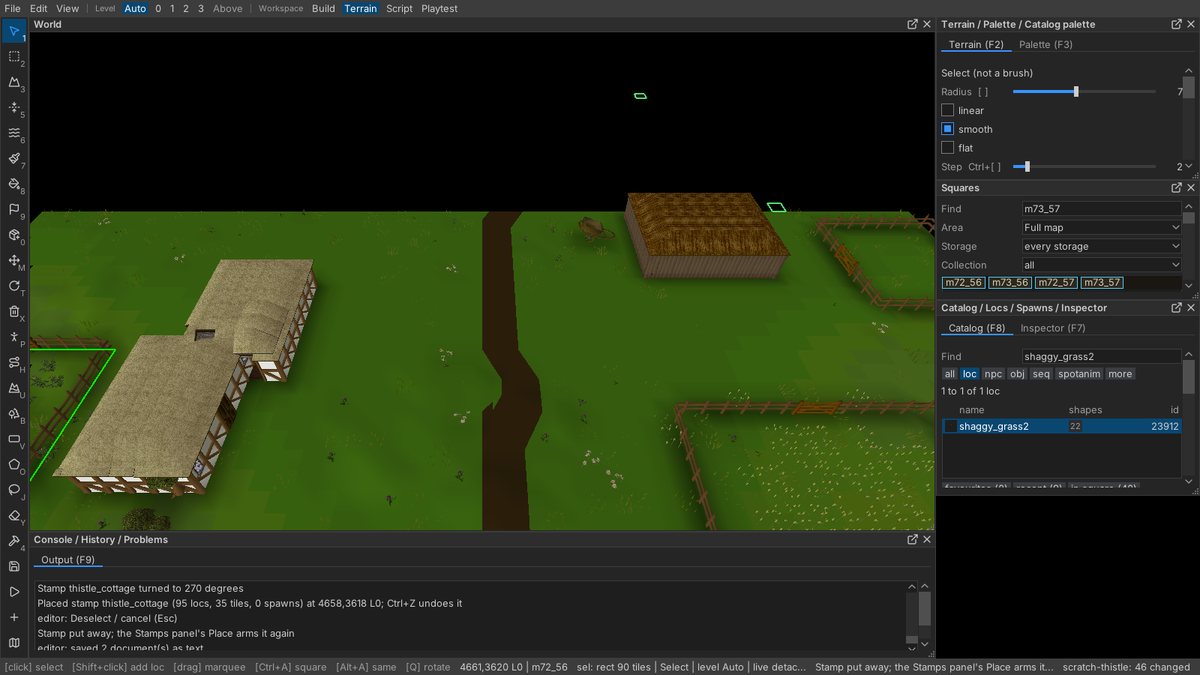
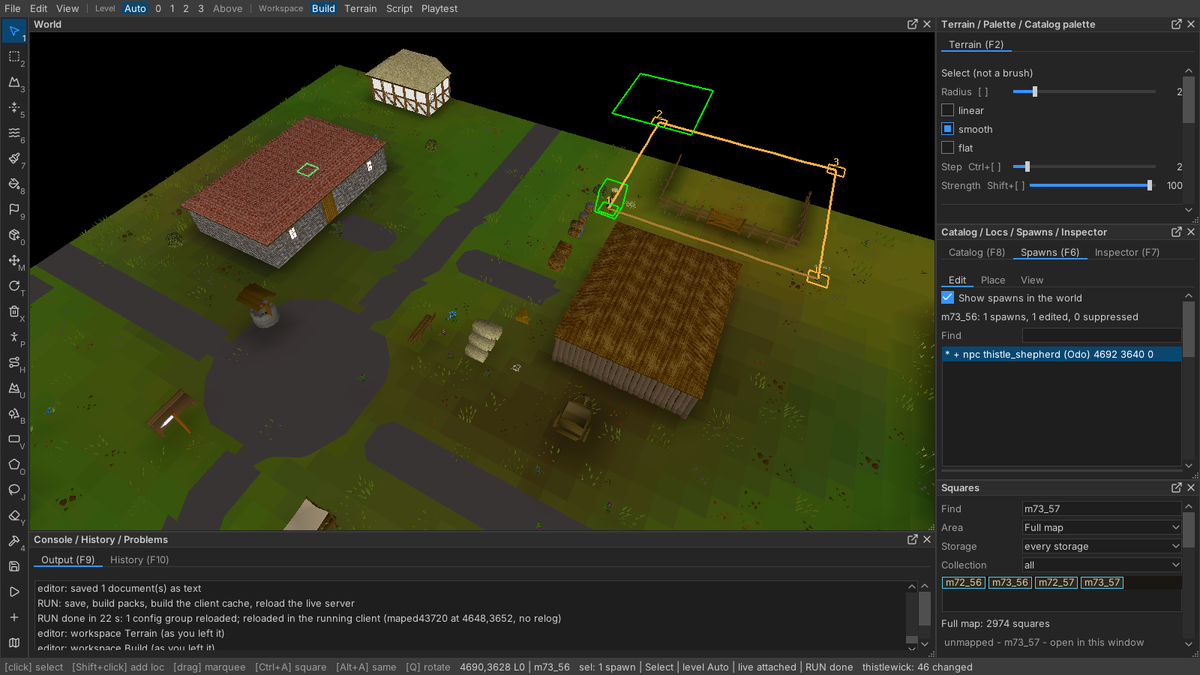
Thistlewick: a village that looks like RuneScape, and the tutorial says how
The first village was a flat h1 field of one green with wide, frayed brown
paths. Measured against Rimmington, Draynor and Taverley's own squares and
rebuilt in the editor:

- roads in overlay 10 (stone floor) laid with the Region tool's natural edge
  shapes, three tiles wide, a square round the well, spurs to the doors;
- the ground lifted to h16 and painted in solid patches of six underlays
  (48, 49, 50, 33, 63, 64) that the client blends;
- three more buildings round the square, a fenced garden, flower beds, dug
  soil, and the props the real villages use most at their doors.

The tutorial's terrain and decoration sections now teach that method, with
the real villages' numbers. The Terrain panel's Mix tooltip says that below
100 it scatters single tiles (a speckle), not a blend.

diff --git a/src/editor/panels/edpanel_terrain.c b/src/editor/panels/edpanel_terrain.c
@@ -1007,7 +1007,7 @@ Editor_Terrain_Register(struct EditorUi* ui)
         "Tiles around the flat top that ease to the ground (Rect too)");
     /* Paint underlay (7): its mix, hidden until armed. */
     self->slider_mix = ToriRSChrome_Slider(chrome, self->panel, "Mix (%)", 10, 100, ui->tools.paint_mix, 10);
-    ToriRSChrome_SetTooltip(chrome, self->slider_mix, "Share of tiles painted under 100: a dither the ground blends");
+    ToriRSChrome_SetTooltip(chrome, self->slider_mix, "Share of tiles painted; under 100 shows as a speckle of tiles");
     self->hint_underlay = ToriRSChrome_Paragraph(chrome, self->panel,
         "The ground blends underlays over 5 tiles: a stroke under 3 wide fades away. "
         "For a hard edge paint an overlay.");

diff --git a/docs/QUEST_TUTORIAL.md b/docs/QUEST_TUTORIAL.md
@@ -106,18 +106,44 @@ Switch to the Terrain workspace (**Workspace: Terrain** on the menu bar,
 Ctrl+2). Every tool below is on the left tool rail; its options are in the
 **Terrain** panel (F2) and its floors in the **Palette** (F3).
 
-A real RuneScape area is never one flat colour. Work from large to small:
-the roads, the lie of the land, water, then the ground's colour.
+A real RuneScape area is never one flat colour, and never flat. Before
+shaping anything, look at a real village in the editor (Squares > Find
+`m46_50`, Rimmington, **Open**; do not save it) and read its files: the
+numbers below come from Rimmington, Draynor and Taverley's `.jm2` and `.jl2`.
+Work from large to small: the lie of the land, the roads, water, then the
+ground's colour.
 
 ### Roads
 
-**Paint path** (H, `tool.paint_path`), **Path** *dirt*, **Width (half tiles)**
-6 for the main road (3 tiles), 4 for a track. With nothing picked in the
-Palette it lays overlay 14 *dirt track* and says so. Drag each arm with a
-slight wobble; **Roughness** 50 frays the edges. The status bar counts what a
-stroke laid: *Path: 70 tiles laid, dirt 3.0 wide, overlay 14 dirt track*.
+Rimmington's roads are overlay **10** (*stone floor*, grey cobble), three
+tiles wide, widening into a square round the well; nearly half of their tiles
+carry an edge **shape** (a half-tile diagonal), which is what keeps their
+outline smooth.
 
-![Dirt crossroads](../res/quest_tutorial/03_crossroads.png)
+![Stone roads and the village square](../res/quest_tutorial/03_crossroads.png)
+
+1. **Pick overlay** `10` in the Palette.
+2. **Region** (O, `tool.region`), **overlay**, shapes **natural**, **Radius
+   (half tiles)** 2, **Hardness** 50.
+3. Drag each road in long, nearly straight strokes: *Region: 87 tiles laid, 22
+   edge shapes*. A road that bends every few tiles is what makes a jagged edge.
+4. The square: **Radius (half tiles)** 6, a small loop on the crossroads.
+5. A short spur from the road to each door.
+
+To take a road off again: **Pick overlay** `0` (*Takes the overlay off*) and
+Paint overlay (8) along it.
+
+Avoid **Paint path** with **Roughness** for village roads: it frays both edges
+by up to two tiles on purpose, which reads as a jagged brown smear in a village
+(it suits a forest track or a river).
+
+### Lift the ground off h1
+
+Real ground averages about h28 (Rimmington runs from h1 to h80). A square made
+at h1 can only go up, so first lift the whole village: **Height**, **raise
+only**, **Radius** 12, **Strength** 100, **Grid height** 16, broad strokes
+over everything inside the hills. Buildings standing on it stay level: a
+uniform lift moves them with the ground.
 
 ### Hills round the edge
 
@@ -150,12 +176,26 @@ The Inspector (F7) reads a hovered tile's height: `height h30 (authored)`.
 
 ### The ground's colour
 
-The Palette knows floors by name: type `light grass`, `dry grass`, `dark
-grass`, `dirt`, `sand`, `water`, `stone`, `wood` into **Pick underlay** /
-**Pick overlay**, and hover a swatch to read its name. Paint underlay (7)
-with **Radius** 5 and **Mix** 35-40 in loose patches: two or three greens that
-blend into each other. A stroke narrower than three tiles blends away (the
-panel says so); for a hard edge, paint an overlay.
+A real village mixes six to eight underlays (Rimmington: 48, 66, 63, 49, 50,
+56, 64), in solid patches several tiles across; the client blends the borders
+between them, so the ground shades from one tone to the next.
+
+The Palette knows floors by name or id: type `meadow grass` (49), `dry grass`
+(50), `dark grass` (33), `dark earth` (63), `earth` (64), `48` into **Pick
+underlay**, and hover a swatch to read its name.
+
+1. Paint underlay (7), **Mix (%) 100**, **flat**, **Radius** 8: a base coat of
+   grass 48 over the whole village.
+2. Then solid blobs, **Mix 100**, **Radius** 4-7: about twenty of meadow 49 and
+   a dozen of dry grass 50 anywhere; dark grass 33 towards the woods; and small
+   ones (**Radius** 2-3) of earth 64 and dark earth 63 round the square and the
+   doors, where feet wear the grass away.
+
+**Keep Mix at 100.** Mix is the share of tiles a stroke paints, not a blend: a
+40% stroke leaves a checkerboard of single tiles that the client draws as a
+speckle of hard little squares. Solid patches are what blend.
+
+![Blended ground, soil patches and props by the mill](../res/quest_tutorial/05_ground_cover.png)
 
 ## 4. Buildings
 
@@ -184,8 +224,16 @@ Thistlewick's buildings:
 | Cottage | Timber and plaster | Wooden planks | Thatch | 9 x 7 |
 | The old mill | Wooden planks | Dark boards | Wooden shingles | 10 x 8 |
 | Sheep pen | Wooden fence | None | None | 8 x 8, a gate as its door |
+| West house | Timber and plaster | Wooden planks | Thatch | 7 x 6 |
+| North house | Brick | Brown boards | Red slate | 7 x 6 |
+| Smithy | Old stone | Grey flagstones | Grey slate | 7 x 6, an `anvil` inside |
+| Garden | Picket fence | None | None | 7 x 7, `cabbage`s on dark earth |
 
-![The hall, cottage and mill](../res/quest_tutorial/04_buildings.png)
+Keep them close: in Rimmington the houses stand two to four tiles apart round
+the square, their doors on the road. A village spread over an empty field
+looks like a field.
+
+![The hall, the mill and the sheep pen, Odo's route drawn in orange](../res/quest_tutorial/04_buildings.png)
 
 ### Stamps: the same cottage again
 
@@ -207,8 +255,15 @@ armed, a click puts it down (Q turns it, a drag lays a run)*. Pin level 0
 
 ![Inside the elder's hall](../res/quest_tutorial/05_hall_inside.png)
 
-**The yard.** `well` at the crossroads, a `signpost`, `barrel`s and a `cart`
-by the mill, the quest's hay bales (next section).
+**The square and the doors.** A `well` in the middle of the square, a
+`signpost`, `bench` and `bench2`, a `seed_stall`. At the mill door
+`crate2_old`, `crate_old`, `sacks`, `barrel_stacked`, `hay_1` / `hay_2`; a
+`logpile` by the west cottage, `plant2` / `plant3` either side of the hall
+and cottage doors, a `wheel_barrow` by the field, an
+`eadgar_druid_washing_line` behind a house. Flower beds are a two-tile patch
+of dark earth 63 with `redflower`, `blueflower` and `rareflowers_blue` on it;
+`bush1` along the walls. These are the props Rimmington, Draynor and
+Lumbridge use most.
 
 **What makes it look like RuneScape.** Look at what Jagex's own squares are
 made of: counting the locs in the ten squares round Lumbridge, the most
@@ -225,7 +280,7 @@ tool (B, `tool.scatter`) for them:
    already hold a loc are skipped, so no grass grows through a cottage floor.
 4. Drag broad strokes over the fields. Alt+drag erases what this pick put down.
 
-![Grass, twigs, thistles and daisies on bare ground, none on the road](../res/quest_tutorial/05_ground_cover.png)
+![The village from the square](../res/quest_tutorial/00_village.png)
 
 **Fields.** The Building tool with **Walls** *Wooden fence*, **Floor** and **Roof**
 *None* fences a field in one drag, and **Door** on a fence piece makes a two-leaf
@@ -715,6 +770,11 @@ removes a scratch lane you no longer need without touching the base tree.
 
 ## 16. Things that catch people out
 
+- **Jagged roads.** Use the Region tool with overlay 10 and natural edges,
+  in long straight strokes; the path painter's Roughness frays edges on
+  purpose.
+- **A speckled, single-coloured ground.** Paint underlays at Mix 100 in solid
+  patches of several greens and earths; below 100, Mix scatters single tiles.
 - **The square is too flat.** Real squares are never one height and one
   colour. Hills on the edges, Roughen on the fields, two or three greens, and
   hundreds of small ground locs (section 5) are what read as RuneScape.

diff --git a/docs/MAPED_STATUS.md b/docs/MAPED_STATUS.md
@@ -40,6 +40,10 @@ is the `thistlewick` lane. Fixes made while building it, each found by using the
   play client's own interfaces as covering (a body under the chat box was "visible" and its
   click landed on the panel).
 - `docs/MAPED_HOTKEYS.md` row for `file.restart_lane`.
+- Terrain: the Mix slider's tooltip says what it does. Mix is the share of tiles a stroke
+  paints, and below 100 it leaves single tiles that the game draws as a speckle; the
+  village's first ground (Mix 35-40) looked like one colour with noise in it. Paint solid
+  patches at 100 and the client blends their borders (the tutorial's section 3).
 
 Open, from the same session: the World draws the far half of a wide view black and the
 editor camera's pitch stops at 383 (no top-down layout view); the Squares picker ignores an

diff --git a/docs/QUEST_TUTORIAL_SCRIPTS.md b/docs/QUEST_TUTORIAL_SCRIPTS.md
@@ -466,7 +466,7 @@ param=magicdefence,0
 param=rangedefence,0
 param=death_drop,bones
 patrol1=0_73_56_20_56,5
-patrol2=0_73_56_31_56,0
-patrol3=0_73_56_31_44,5
+patrol2=0_73_56_30_56,0
+patrol3=0_73_56_30_44,5
 patrol4=0_73_56_20_44,0
 ```
